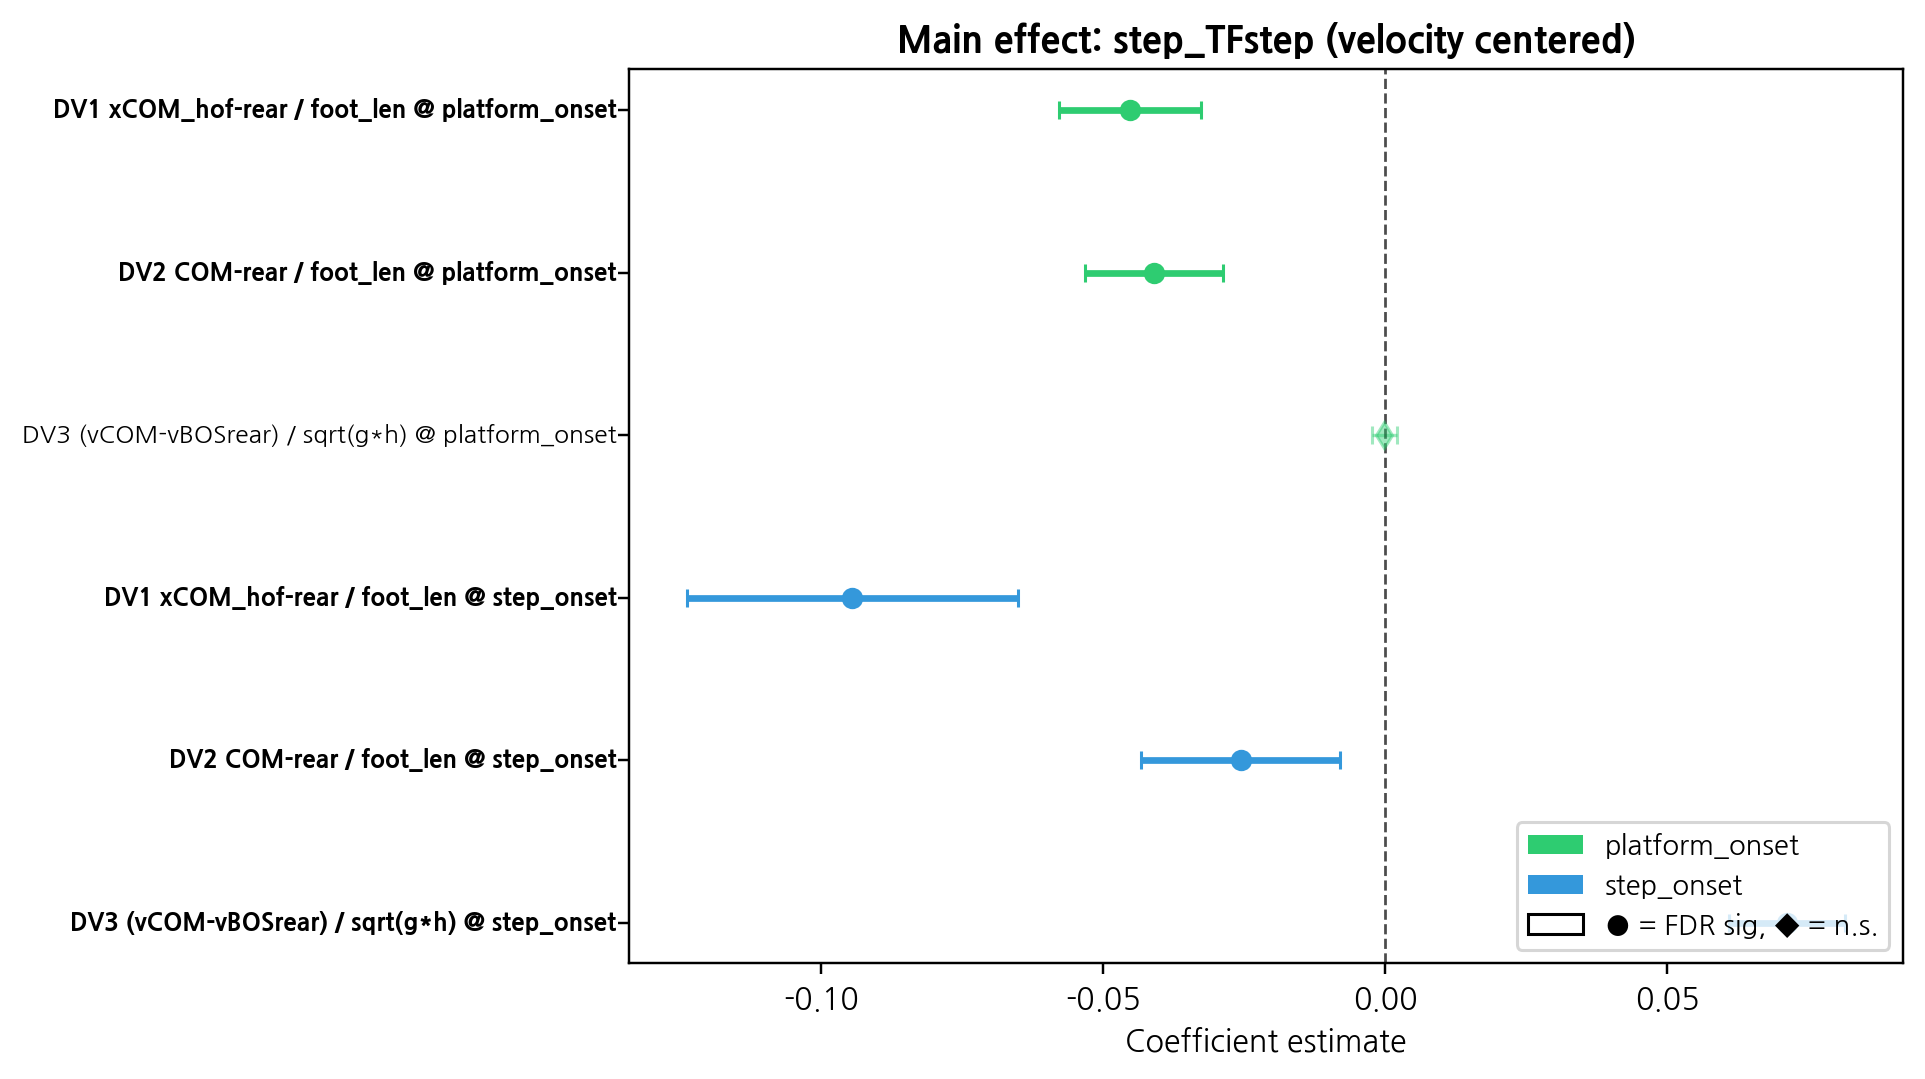
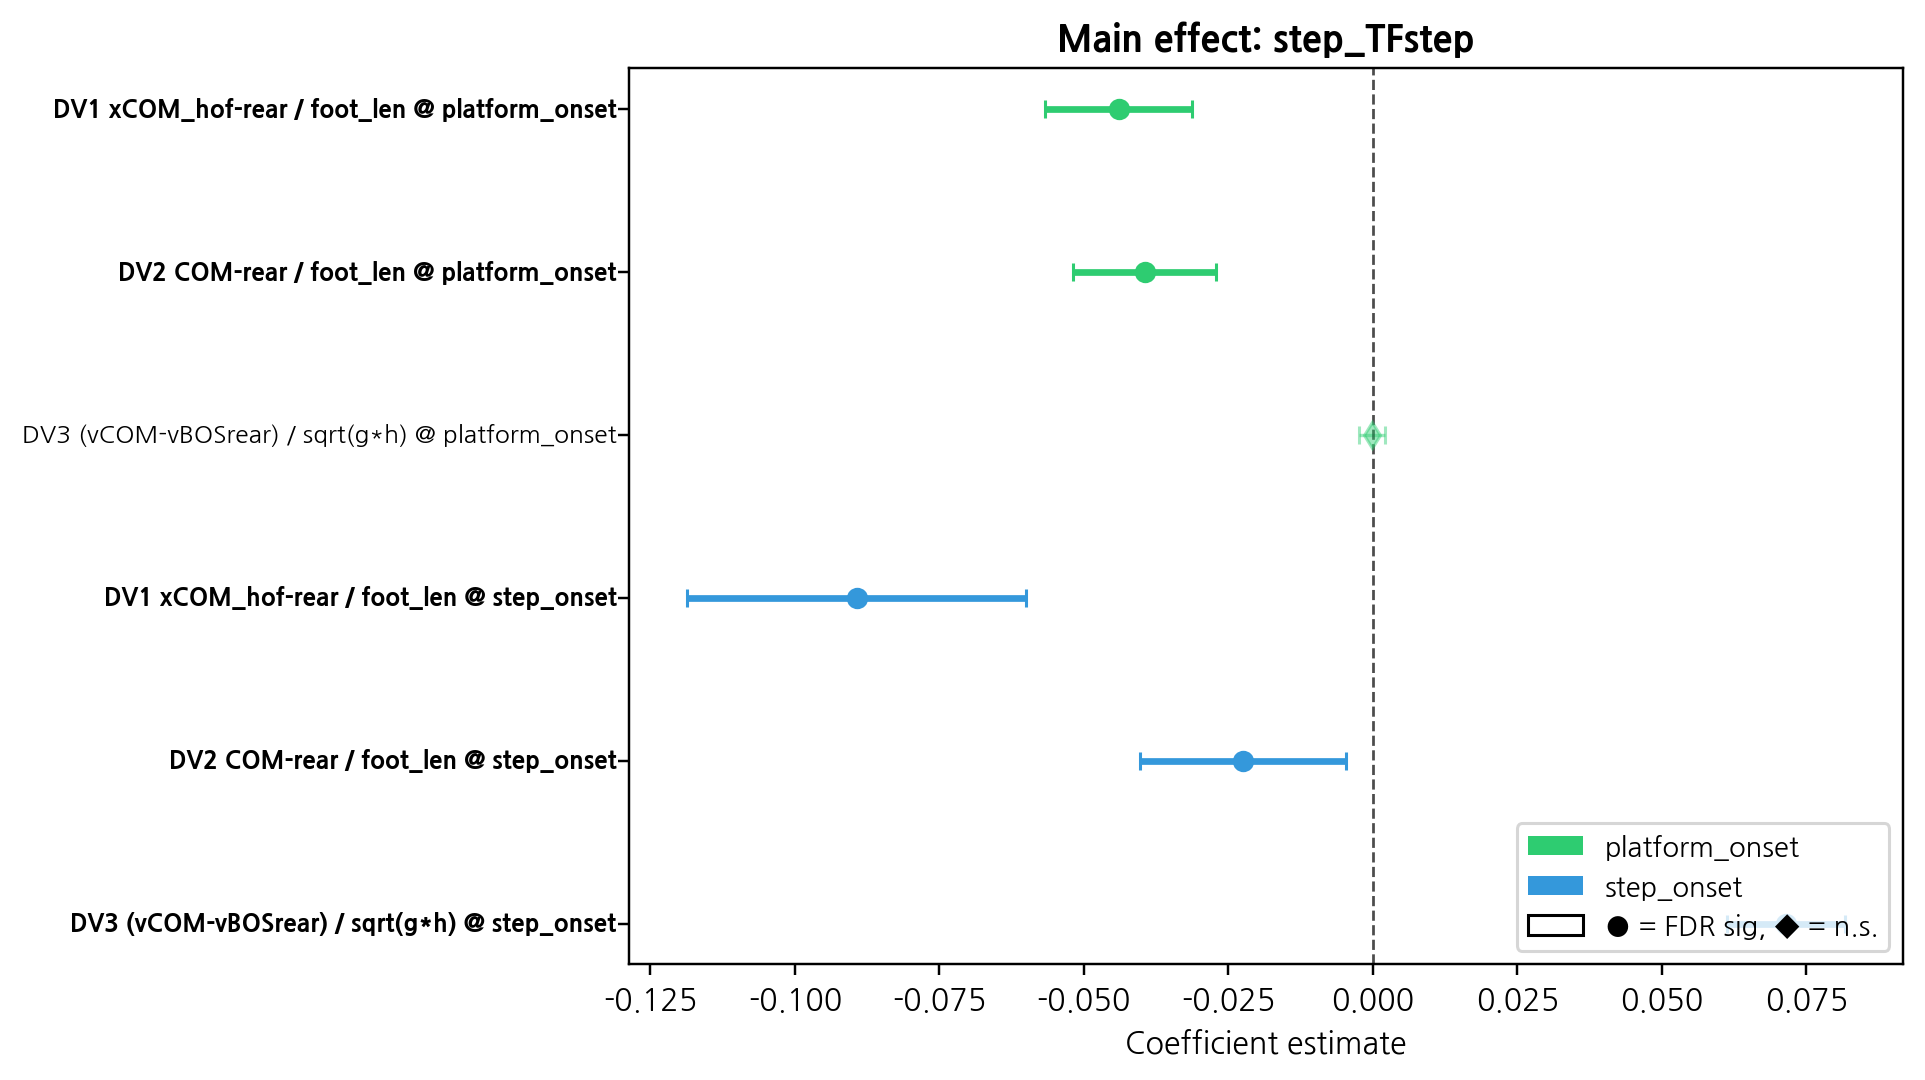
xCOM&BOS LMM을 step/nonstep 주효과 중심으로 전환
상호작용(step×velocity) 항과 fig2 상호작용 포레스트 출력을 제거하고, DV별 step_TF 효과만 적합하도록 분석 스크립트를 수정함.

report.md 수치/해석을 새 모델(DV ~ step_TF + (1|subject), FDR 5/6) 기준으로 전면 동기화하고, 이슈/트러블슈팅 기록을 갱신함.

diff --git a/analysis/xCOM&BOS_normalization/analyze_xcom_bos_normalization_lmm.py b/analysis/xCOM&BOS_normalization/analyze_xcom_bos_normalization_lmm.py
@@ -5,8 +5,8 @@ Answers:
 (statistically consolidated) distinguish step vs nonstep strategies?"
 
 Statistical method: Linear Mixed Model (LMM) with lmerTest inference
-  Model: DV ~ step_TF * velocity_c + (1|subject)
-  Multiple comparison: Benjamini-Hochberg FDR by term
+  Model: DV ~ step_TF + (1|subject)
+  Multiple comparison: Benjamini-Hochberg FDR across DVs
   Analysis events: platform onset and step onset
 
 Produces:
@@ -583,8 +583,6 @@ def load_and_prepare(csv_path: Path, xlsm_path: Path, dv_specs: list[dict]) -> t
     )
 
     trial_df = trial_df[trial_df["step_TF"].isin(["step", "nonstep"])].reset_index(drop=True)
-    trial_df["velocity_c"] = trial_df["velocity"] - trial_df["velocity"].mean()
-
     if trial_df[TRIAL_KEYS].isna().any().any():
         raise ValueError("Null key values detected in trial-level table.")
 
@@ -617,7 +615,7 @@ data <- read.csv("{csv_path}", stringsAsFactors = FALSE)
 data$subject <- as.factor(data$subject)
 data$step_TF <- factor(data$step_TF, levels = c("nonstep", "step"))
 
-dv_cols <- colnames(data)[!colnames(data) %in% c("subject", "velocity", "velocity_c", "trial", "step_TF")]
+dv_cols <- colnames(data)[!colnames(data) %in% c("subject", "velocity", "trial", "step_TF")]
 
 results <- data.frame(
   dv = character(),
@@ -658,8 +656,8 @@ append_row <- function(dv, term, est, se, df_val, t_val, p_val, m_s, sd_s, m_ns,
 }}
 
 for (dv in dv_cols) {{
-  formula_str <- paste0("`", dv, "` ~ step_TF * velocity_c + (1|subject)")
-  sub <- data[!is.na(data[[dv]]) & !is.na(data$velocity_c) & !is.na(data$step_TF), ]
+  formula_str <- paste0("`", dv, "` ~ step_TF + (1|subject)")
+  sub <- data[!is.na(data[[dv]]) & !is.na(data$step_TF), ]
 
   n_s <- sum(sub$step_TF == "step")
   n_ns <- sum(sub$step_TF == "nonstep")
@@ -674,7 +672,6 @@ for (dv in dv_cols) {{
     rn <- rownames(co)
 
     row_main <- if ("step_TFstep" %in% rn) "step_TFstep" else NA
-    row_int <- if ("step_TFstep:velocity_c" %in% rn) "step_TFstep:velocity_c" else if ("velocity_c:step_TFstep" %in% rn) "velocity_c:step_TFstep" else NA
 
     if (!is.na(row_main)) {{
       append_row(
@@ -689,23 +686,8 @@ for (dv in dv_cols) {{
     }} else {{
       append_row(dv, "main_step_effect", NA, NA, NA, NA, NA, m_s, sd_s, m_ns, sd_ns, n_s, n_ns, FALSE)
     }}
-
-    if (!is.na(row_int)) {{
-      append_row(
-        dv, "interaction_step_x_velocity",
-        co[row_int, "Estimate"],
-        co[row_int, "Std. Error"],
-        co[row_int, "df"],
-        co[row_int, "t value"],
-        co[row_int, "Pr(>|t|)"],
-        m_s, sd_s, m_ns, sd_ns, n_s, n_ns, TRUE
-      )
-    }} else {{
-      append_row(dv, "interaction_step_x_velocity", NA, NA, NA, NA, NA, m_s, sd_s, m_ns, sd_ns, n_s, n_ns, FALSE)
-    }}
   }}, error = function(e) {{
     append_row(dv, "main_step_effect", NA, NA, NA, NA, NA, m_s, sd_s, m_ns, sd_ns, n_s, n_ns, FALSE)
-    append_row(dv, "interaction_step_x_velocity", NA, NA, NA, NA, NA, m_s, sd_s, m_ns, sd_ns, n_s, n_ns, FALSE)
   }})
 }}
 
@@ -716,7 +698,7 @@ cat("LMM fitting complete:", nrow(results), "rows\\n")
 
 def fit_lmm_all(trial_df: pd.DataFrame, dv_specs: list[dict]) -> pd.DataFrame:
     dv_names = [x["dv"] for x in dv_specs]
-    export_cols = ["subject", "velocity", "trial", "step_TF", "velocity_c"] + dv_names
+    export_cols = ["subject", "velocity", "trial", "step_TF"] + dv_names
     export_df = trial_df[export_cols].copy()
 
     with tempfile.NamedTemporaryFile(
@@ -739,7 +721,7 @@ def fit_lmm_all(trial_df: pd.DataFrame, dv_specs: list[dict]) -> pd.DataFrame:
 
     try:
         rscript_cmd, r_env = resolve_r_runtime()
-        print("  Running Rscript for interaction LMM fitting...")
+        print("  Running Rscript for step-effect LMM fitting...")
         print(f"  Using Rscript: {rscript_cmd}")
         proc = subprocess.run(
             [rscript_cmd, r_script],
@@ -812,14 +794,14 @@ def _metric_label(metric: str) -> str:
 
 def print_results_table(results: pd.DataFrame) -> None:
     print("\n" + "=" * 96)
-    print("LMM Results: DV ~ step_TF * velocity_c + (1|subject), REML")
-    print("FDR: BH by term (main vs interaction) across all DVs")
+    print("LMM Results: DV ~ step_TF + (1|subject), REML")
+    print("FDR: BH across all DVs")
     print("=" * 96)
     fmt = "{:<44s} {:<28s} {:>10s} {:>9s} {:>8s} {:>6s}"
     print(fmt.format("DV", "Term", "Estimate", "SE", "t", "Sig"))
     print("-" * 96)
 
-    for term in ["main_step_effect", "interaction_step_x_velocity"]:
+    for term in ["main_step_effect"]:
         sub = results[results["term"] == term].copy()
         sub = sub.sort_values(["metric", "event", "dv"]).reset_index(drop=True)
         for _, row in sub.iterrows():
@@ -967,11 +949,8 @@ def fig3_violin_significant(
 
         rows = results[results["dv"] == dv]
         sig_main = rows.loc[rows["term"] == "main_step_effect", "sig"]
-        sig_int = rows.loc[rows["term"] == "interaction_step_x_velocity", "sig"]
         main_txt = sig_main.iloc[0] if len(sig_main) > 0 and sig_main.iloc[0] else "n.s."
-        int_txt = sig_int.iloc[0] if len(sig_int) > 0 and sig_int.iloc[0] else "n.s."
-
-        ax.set_title(f"{dv}\nmain={main_txt}, interaction={int_txt}", fontsize=9, fontweight="bold")
+        ax.set_title(f"{dv}\nmain={main_txt}", fontsize=9, fontweight="bold")
         ax.set_xlabel("")
         ax.set_ylabel("value", fontsize=8)
 
@@ -980,7 +959,7 @@ def fig3_violin_significant(
         axes[r][c].set_visible(False)
 
     fig.suptitle(
-        "Significant (or top-p) DVs: step vs nonstep distributions",
+        "Significant (or top-p) DVs: step vs nonstep",
         fontsize=12,
         fontweight="bold",
         y=1.02,
@@ -998,7 +977,7 @@ def main() -> None:
     dv_specs = build_dv_specs()
 
     print("=" * 72)
-    print("xCOM/BOS Normalization Step-vs-Nonstep Interaction LMM")
+    print("xCOM/BOS Normalization Step-vs-Nonstep LMM")
     print("=" * 72)
 
     print("\n[M1] Load and prepare data...")
@@ -1024,17 +1003,14 @@ def main() -> None:
             results,
             term="main_step_effect",
             out_path=out_dir / "fig1_main_effect_forest.png",
-            title="Main effect: step_TFstep (velocity centered)",
+            title="Main effect: step_TFstep",
         )
         print("  fig1_main_effect_forest.png")
 
-        _forest_plot(
-            results,
-            term="interaction_step_x_velocity",
-            out_path=out_dir / "fig2_interaction_forest.png",
-            title="Interaction effect: step_TFstep:velocity_c",
-        )
-        print("  fig2_interaction_forest.png")
+        legacy_interaction_fig = out_dir / "fig2_interaction_forest.png"
+        if legacy_interaction_fig.exists():
+            legacy_interaction_fig.unlink()
+            print("  removed legacy fig2_interaction_forest.png")
 
         fig3_violin_significant(
             trial_df,

diff --git a/analysis/xCOM&BOS_normalization/report.md b/analysis/xCOM&BOS_normalization/report.md
@@ -38,9 +38,9 @@
 | Joshi 위치 지표 `(COM-BOS)/foot_length` | `DV2 = (COM_X - BOS_minX)/foot_length` | XCOM 대신 COM 위치항만 분리해 위치항 기여를 명시적으로 확인 |
 | Joshi 속도 지표 `(vCOM-vBOS)/sqrt(g*h)` | `DV3 = (vCOM_X - vBOSrear)/sqrt(g*height)` | CSV에 BOS rear 속도가 직접 없으므로 `BOS_minX` 차분(100 Hz)으로 계산 |
 | 논문 이벤트(lift-off/touchdown, onset, 300ms) | `platform onset`, `step onset` 2개 이벤트로 고정 | 사용자 확정 요구사항에 따라 이벤트 수를 2개로 제한 |
-| 통계 모델 | `DV ~ step_TF * velocity_c + (1|subject)` | 반복측정 구조(24명, 125 trial)를 반영하기 위해 LMM 유지 + velocity 중심화 |
+| 통계 모델 | `DV ~ step_TF + (1|subject)` | 반복측정 구조(24명, 125 trial)를 반영하면서 변수별 step/nonstep 유의성을 직접 검정 |
 
-**Summary**: 본 분석은 Van Wouwe/Salot/Joshi 계열 공식을 현재 데이터에 맞게 통합(`DV1~DV3`)하고, `platform onset`/`step onset` 이벤트에서 step/nonstep 차이를 상호작용 LMM으로 검정했다.
+**Summary**: 본 분석은 Van Wouwe/Salot/Joshi 계열 공식을 현재 데이터에 맞게 통합(`DV1~DV3`)하고, `platform onset`/`step onset` 이벤트에서 각 변수의 step/nonstep 차이를 독립 LMM으로 검정했다.
 
 ## Data Summary
 
@@ -60,8 +60,8 @@
   - step: `step_onset_local`
   - missing step onset: same `(subject, velocity)` mean
   - residual fallback: prefilter `platform` event 기반 subject-velocity mean
-- **Statistical model**: `DV ~ step_TF * velocity_c + (1|subject)` (REML, `lmerTest`)
-- **Multiple comparison correction**: BH-FDR, term별 분리 보정(`main_step_effect`, `interaction_step_x_velocity`)
+- **Statistical model**: `DV ~ step_TF + (1|subject)` (REML, `lmerTest`)
+- **Multiple comparison correction**: BH-FDR, 6개 DV 전체 일괄 보정(`main_step_effect`)
 - **Significance reporting**: `Sig` only (`***`, `**`, `*`, `n.s.`, alpha=0.05)
 - **Normalization inputs**:
   - `foot_len_m = ((발길이_왼 + 발길이_오른)/2) / 1000`
@@ -94,14 +94,14 @@
 
 ### Analyzed Variables (Full Set)
 
-| Variable | Formula family | Event | Result status (main / interaction) |
+| Variable | Formula family | Event | Result status (main) |
 |---|---|---|---|
-| `DV1_xcom_hof_rear_over_foot_platformonset` | VanWouwe+Salot+Patel+Bhatt | platform_onset | `*** / n.s.` |
-| `DV1_xcom_hof_rear_over_foot_steponset` | VanWouwe+Salot+Patel+Bhatt | step_onset | `*** / n.s.` |
-| `DV2_com_rear_over_foot_platformonset` | Joshi_position | platform_onset | `*** / n.s.` |
-| `DV2_com_rear_over_foot_steponset` | Joshi_position | step_onset | `** / n.s.` |
-| `DV3_vcom_rel_over_sqrtgh_platformonset` | Joshi_velocity | platform_onset | `n.s. / n.s.` |
-| `DV3_vcom_rel_over_sqrtgh_steponset` | Joshi_velocity | step_onset | `*** / n.s.` |
+| `DV1_xcom_hof_rear_over_foot_platformonset` | VanWouwe+Salot+Patel+Bhatt | platform_onset | `***` |
+| `DV1_xcom_hof_rear_over_foot_steponset` | VanWouwe+Salot+Patel+Bhatt | step_onset | `***` |
+| `DV2_com_rear_over_foot_platformonset` | Joshi_position | platform_onset | `***` |
+| `DV2_com_rear_over_foot_steponset` | Joshi_position | step_onset | `*` |
+| `DV3_vcom_rel_over_sqrtgh_platformonset` | Joshi_velocity | platform_onset | `n.s.` |
+| `DV3_vcom_rel_over_sqrtgh_steponset` | Joshi_velocity | step_onset | `***` |
 
 ## Results
 
@@ -109,50 +109,36 @@
 
 | Variable | Step (M±SD) | Nonstep (M±SD) | Estimate | Sig |
 |---|---:|---:|---:|---|
-| `DV1_xcom_hof_rear_over_foot_platformonset` | 0.5091±0.0596 | 0.5715±0.0654 | -0.0453 | *** |
-| `DV1_xcom_hof_rear_over_foot_steponset` | 0.2354±0.1720 | 0.3232±0.0996 | -0.0945 | *** |
-| `DV2_com_rear_over_foot_platformonset` | 0.4976±0.0583 | 0.5525±0.0627 | -0.0411 | *** |
-| `DV2_com_rear_over_foot_steponset` | 0.2648±0.1109 | 0.2872±0.0745 | -0.0257 | ** |
-| `DV3_vcom_rel_over_sqrtgh_platformonset` | -0.0245±0.0159 | -0.0291±0.0195 | -0.0002 | n.s. |
-| `DV3_vcom_rel_over_sqrtgh_steponset` | 0.0684±0.0429 | -0.0039±0.0184 | 0.0712 | *** |
+| `DV1_xcom_hof_rear_over_foot_platformonset` | 0.5091±0.0596 | 0.5715±0.0654 | -0.0440 | *** |
+| `DV1_xcom_hof_rear_over_foot_steponset` | 0.2354±0.1720 | 0.3232±0.0996 | -0.0893 | *** |
+| `DV2_com_rear_over_foot_platformonset` | 0.4976±0.0583 | 0.5525±0.0627 | -0.0395 | *** |
+| `DV2_com_rear_over_foot_steponset` | 0.2648±0.1109 | 0.2872±0.0745 | -0.0225 | * |
+| `DV3_vcom_rel_over_sqrtgh_platformonset` | -0.0245±0.0159 | -0.0291±0.0195 | -0.0001 | n.s. |
+| `DV3_vcom_rel_over_sqrtgh_steponset` | 0.0684±0.0429 | -0.0039±0.0184 | 0.0715 | *** |
 
 - Main effect 유의 계수: **5/6**
 
-### 2. Interaction Effect (`step_TFstep:velocity_c`) Results
+### 2. Overall
 
-| Variable | Interaction Estimate | Sig |
-|---|---:|---|
-| `DV1_xcom_hof_rear_over_foot_platformonset` | -0.0004 | n.s. |
-| `DV1_xcom_hof_rear_over_foot_steponset` | -0.0006 | n.s. |
-| `DV2_com_rear_over_foot_platformonset` | -0.0004 | n.s. |
-| `DV2_com_rear_over_foot_steponset` | -0.0005 | n.s. |
-| `DV3_vcom_rel_over_sqrtgh_platformonset` | 0.0000 | n.s. |
-| `DV3_vcom_rel_over_sqrtgh_steponset` | -0.0001 | n.s. |
-
-- Interaction 유의 계수: **0/6**
-
-### 3. Overall
-
-- 전체 계수 기준 FDR 유의: **5/12**
-- 유의성은 대부분 `main_step_effect`에서 관찰되었고, `step×velocity` 상호작용은 본 데이터에서 유의하지 않았다.
+- 전체 DV 기준 FDR 유의: **5/6**
+- 유의성은 `main_step_effect` 기준으로 DV1, DV2(2개 이벤트), DV3(step onset)에서 관찰되었다.
 
 ## Comparison with Prior Studies
 
 | Comparison Item | Prior Study Result | Current Result | Verdict |
 |---|---|---|---|
 | Hof 기반 XCOM/BOS 지표의 전략 구분력 | onset/early 시점 안정성 지표로 유효 | DV1이 onset/step_onset 모두 유의(`***`) | Consistent |
-| COM 위치항 정규화의 차이 | 위치항 정규화(`(COM-BOS)/foot`) 사용 보고 | DV2가 두 이벤트 모두 유의(`***`, `**`) | Consistent |
+| COM 위치항 정규화의 차이 | 위치항 정규화(`(COM-BOS)/foot`) 사용 보고 | DV2가 두 이벤트 모두 유의(`***`, `*`) | Consistent |
 | 속도 정규화 항의 분리 해석 | `VCOM/BOS`를 별도 지표로 해석 | DV3는 step_onset에서만 유의(`***`), onset은 n.s. | Partially consistent |
-| 속도 조건과의 상호작용 | 논문별로 task/intensity 영향 보고 | `step_TF*velocity_c`는 6개 모두 n.s. | Inconsistent |
 | 이벤트 정의 일치성 | lift-off/touchdown, 300ms 등 다양 | 사용자 요구로 onset/step_onset 2개로 제한 | Not tested |
 
-`Inconsistent`/`Not tested` 항목은 이벤트 정의와 실험 설계(원문 vs 현재 데이터)의 차이에서 발생했을 가능성이 높다.
+`Not tested` 항목은 이벤트 정의와 실험 설계(원문 vs 현재 데이터)의 차이에서 발생했을 가능성이 높다.
 
 ## Interpretation & Conclusion
 
 1. `methods_list` 기반 xCOM/BOS 계열 통합식은 본 데이터에서 step/nonstep 전략 차이를 통계적으로 구분했다. 특히 DV1, DV2는 두 이벤트 모두 유의했다.
 2. 속도 정규화 지표(DV3)는 step onset에서만 유의하여, 전략 분리는 이벤트 시점 의존성이 크다.
-3. 상호작용(`step×velocity`)은 유의하지 않아, 현재 표본에서는 속도 변화가 step/nonstep 차이를 추가적으로 증폭/완화한다는 근거가 부족했다.
+3. 본 분석 목적(변수별 step/nonstep 유의성 확인)에 맞춰 단일 고정효과 LMM을 사용했으며, 결과 해석은 각 DV의 `step_TFstep` 계수 유의성에 집중한다.
 
 ## Limitations
 
@@ -169,12 +155,11 @@ conda run --no-capture-output -n module python analysis/xCOM&BOS_normalization/a
 ```
 
 - Input: `output/all_trials_timeseries.csv`, `data/perturb_inform.xlsm`
-- Output: figure 3개 + 콘솔 LMM 결과
+- Output: figure 2개 + 콘솔 LMM 결과
 
 ## Figures
 
 | File | Description |
 |---|---|
 | `fig1_main_effect_forest.png` | `step_TFstep` 주효과 계수 forest plot |
-| `fig2_interaction_forest.png` | `step_TFstep:velocity_c` 상호작용 계수 forest plot |
 | `fig3_violin_significant.png` | 유의(또는 top-p) DV의 step/nonstep 분포 violin/strip |

diff --git a/.codex/issue.md b/.codex/issue.md
@@ -7,6 +7,7 @@ Policy:
 ---
 ## 2026-02-24
 
+- [ANALYSIS] `analysis/xCOM&BOS_normalization`에서 통계모델이 `DV ~ step_TF * velocity_c + (1|subject)`로 고정되어 있어, 사용자 요구사항인 "변수별 step/nonstep 유의성만 확인"과 직접적으로 일치하지 않고 결과 해석이 상호작용 중심으로 분산되는 문제가 있었음.
 - [DOC] `.codex/skills/analysis-report/SKILL.md`와 `.codex/skills/analysis-reviewer/SKILL.md`가 figure/visualization 생성 및 PNG 커밋 절차를 기본 강제해, "visualization 불필요" 요구와 충돌하는 문서 정책 문제가 있었음.
 - [ANALYSIS] `analysis/xCOM&BOS_normalization` 신규 분석에서 anthropometric 입력을 `transpose_meta`에서 직접 읽으면 일부 분석 대상(subject 누락, 0값)에서 `foot length/height` 분모가 비정상(`0` 또는 결측)으로 되어 xCOM/BOS 정규화식이 붕괴되는 문제가 있었음.
 - [ANALYSIS] `analysis/xCOM&BOS_normalization`의 `step_onset` 이벤트 구성 시, step trial 1건(`조민석-30-1`)은 원본 이벤트 시트의 `step_onset`이 비어 있어 trial-level `step_onset_eval`이 결측으로 남고 표본 수가 `125 -> 124`로 축소되는 문제가 발생함.
